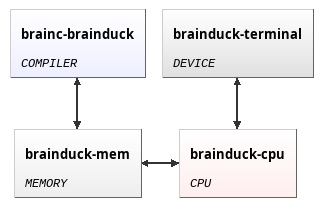
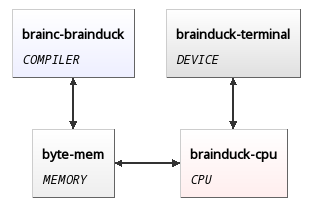
[#12] use byte-mem instead of brainduck-mem

diff --git a/documentation/user/brainduck/index.html b/documentation/user/brainduck/index.html
@@ -1,1 +1,1 @@
-<!DOCTYPE html> <html lang="en-US"> <head> <meta charset="UTF-8"> <meta http-equiv="X-UA-Compatible" content="IE=Edge"> <title>BrainDuck - User documentation for emuStudio</title> <link rel="shortcut icon" href="/documentation/user/favicon.ico" type="image/x-icon"> <link rel="stylesheet" href="/documentation/user/assets/css/just-the-docs-default.css"> <script async src="https://www.googletagmanager.com/gtag/js?id=UA-3492956-5"></script> <script> window.dataLayer = window.dataLayer || []; function gtag(){dataLayer.push(arguments);} gtag('js', new Date()); gtag('config', 'UA-3492956-5', { 'anonymize_ip': true }); </script> <script src="/documentation/user/assets/js/vendor/lunr.min.js"></script> <script src="https://cdn.jsdelivr.net/npm/mermaid@9.1.6/dist/mermaid.min.js"></script> <script src="/documentation/user/assets/js/just-the-docs.js"></script> <meta name="viewport" content="width=device-width, initial-scale=1"> <!-- Begin Jekyll SEO tag v2.8.0 --> <title>BrainDuck | User documentation for emuStudio</title> <meta name="generator" content="Jekyll v4.3.1" /> <meta property="og:title" content="BrainDuck" /> <meta property="og:locale" content="en_US" /> <meta name="description" content="User documentation for emuStudio 0.40. emuStudio is universal emulation platform and framework targeting mainly academic sphere." /> <meta property="og:description" content="User documentation for emuStudio 0.40. emuStudio is universal emulation platform and framework targeting mainly academic sphere." /> <link rel="canonical" href="/documentation/user/brainduck/" /> <meta property="og:url" content="/documentation/user/brainduck/" /> <meta property="og:site_name" content="User documentation for emuStudio" /> <meta property="og:type" content="website" /> <meta name="twitter:card" content="summary" /> <meta property="twitter:title" content="BrainDuck" /> <script type="application/ld+json"> {"@context":"https://schema.org","@type":"WebPage","description":"User documentation for emuStudio 0.40. emuStudio is universal emulation platform and framework targeting mainly academic sphere.","headline":"BrainDuck","publisher":{"@type":"Organization","logo":{"@type":"ImageObject","url":"/documentation/user/assets/logo-1.svg"}},"url":"/documentation/user/brainduck/"}</script> <!-- End Jekyll SEO tag --> </head> <body> <a class="skip-to-main" href="#main-content">Skip to main content</a> <svg xmlns="http://www.w3.org/2000/svg" style="display: none;"> <symbol id="svg-link" viewBox="0 0 24 24"> <title>Link</title> <svg xmlns="http://www.w3.org/2000/svg" width="24" height="24" viewBox="0 0 24 24" fill="none" stroke="currentColor" stroke-width="2" stroke-linecap="round" stroke-linejoin="round" class="feather feather-link"> <path d="M10 13a5 5 0 0 0 7.54.54l3-3a5 5 0 0 0-7.07-7.07l-1.72 1.71"></path><path d="M14 11a5 5 0 0 0-7.54-.54l-3 3a5 5 0 0 0 7.07 7.07l1.71-1.71"></path> </svg> </symbol> <symbol id="svg-search" viewBox="0 0 24 24"> <title>Search</title> <svg xmlns="http://www.w3.org/2000/svg" width="24" height="24" viewBox="0 0 24 24" fill="none" stroke="currentColor" stroke-width="2" stroke-linecap="round" stroke-linejoin="round" class="feather feather-search"> <circle cx="11" cy="11" r="8"></circle><line x1="21" y1="21" x2="16.65" y2="16.65"></line> </svg> </symbol> <symbol id="svg-menu" viewBox="0 0 24 24"> <title>Menu</title> <svg xmlns="http://www.w3.org/2000/svg" width="24" height="24" viewBox="0 0 24 24" fill="none" stroke="currentColor" stroke-width="2" stroke-linecap="round" stroke-linejoin="round" class="feather feather-menu"> <line x1="3" y1="12" x2="21" y2="12"></line><line x1="3" y1="6" x2="21" y2="6"></line><line x1="3" y1="18" x2="21" y2="18"></line> </svg> </symbol> <symbol id="svg-arrow-right" viewBox="0 0 24 24"> <title>Expand</title> <svg xmlns="http://www.w3.org/2000/svg" width="24" height="24" viewBox="0 0 24 24" fill="none" stroke="currentColor" stroke-width="2" stroke-linecap="round" stroke-linejoin="round" class="feather feather-chevron-right"> <polyline points="9 18 15 12 9 6"></polyline> </svg> </symbol> <symbol id="svg-doc" viewBox="0 0 24 24"> <title>Document</title> <svg xmlns="http://www.w3.org/2000/svg" width="24" height="24" viewBox="0 0 24 24" fill="none" stroke="currentColor" stroke-width="2" stroke-linecap="round" stroke-linejoin="round" class="feather feather-file"> <path d="M13 2H6a2 2 0 0 0-2 2v16a2 2 0 0 0 2 2h12a2 2 0 0 0 2-2V9z"></path><polyline points="13 2 13 9 20 9"></polyline> </svg> </symbol> <!-- Feather. MIT License: https://github.com/feathericons/feather/blob/master/LICENSE --> <symbol id="svg-external-link" width="24" height="24" viewBox="0 0 24 24" fill="none" stroke="currentColor" stroke-width="2" stroke-linecap="round" stroke-linejoin="round" class="feather feather-external-link"> <title id="svg-external-link-title">(external link)</title> <path d="M18 13v6a2 2 0 0 1-2 2H5a2 2 0 0 1-2-2V8a2 2 0 0 1 2-2h6"></path><polyline points="15 3 21 3 21 9"></polyline><line x1="10" y1="14" x2="21" y2="3"></line> </symbol> </svg> <div class="side-bar"> <div class="site-header"> <a href="/documentation/user/" class="site-title lh-tight"> <div class="site-logo"></div> </a> <a href="#" id="menu-button" class="site-button"> <svg viewBox="0 0 24 24" class="icon"><use xlink:href="#svg-menu"></use></svg> </a> </div> <nav aria-label="Main" id="site-nav" class="site-nav"> <ul class="nav-list"><li class="nav-list-item"><a href="#" class="nav-list-expander" aria-label="toggle links in Introduction category"> <svg viewBox="0 0 24 24"><use xlink:href="#svg-arrow-right"></use></svg> </a><a href="/documentation/user/introduction/" class="nav-list-link">Introduction</a><ul class="nav-list "></ul></li><li class="nav-list-item"><a href="#" class="nav-list-expander" aria-label="toggle links in emuStudio Application category"> <svg viewBox="0 0 24 24"><use xlink:href="#svg-arrow-right"></use></svg> </a><a href="/documentation/user/application/" class="nav-list-link">emuStudio Application</a><ul class="nav-list "><li class="nav-list-item "><a href="/documentation/user/application/configuration-file" class="nav-list-link">Configuration file</a></li><li class="nav-list-item "><a href="/documentation/user/application/opening-computer" class="nav-list-link">Opening a computer</a></li><li class="nav-list-item "><a href="/documentation/user/application/computer-schema" class="nav-list-link">Computer schema</a></li><li class="nav-list-item "><a href="/documentation/user/application/main-window" class="nav-list-link">Main window</a></li><li class="nav-list-item "><a href="/documentation/user/application/automation" class="nav-list-link">Automation</a></li><li class="nav-list-item "><a href="/documentation/user/application/logging" class="nav-list-link">Logging</a></li></ul></li><li class="nav-list-item"><a href="#" class="nav-list-expander" aria-label="toggle links in MITS Altair8800 category"> <svg viewBox="0 0 24 24"><use xlink:href="#svg-arrow-right"></use></svg> </a><a href="/documentation/user/altair8800/" class="nav-list-link">MITS Altair8800</a><ul class="nav-list "><li class="nav-list-item "><a href="/documentation/user/altair8800/as-8080" class="nav-list-link">Assembler as-8080</a></li><li class="nav-list-item "><a href="/documentation/user/altair8800/as-z80" class="nav-list-link">Assembler as-z80</a></li><li class="nav-list-item "><a href="/documentation/user/altair8800/8080-cpu" class="nav-list-link">CPU 8080-cpu</a></li><li class="nav-list-item "><a href="/documentation/user/altair8800/z80-cpu" class="nav-list-link">CPU z80-cpu</a></li><li class="nav-list-item "><a href="/documentation/user/altair8800/standard-mem" class="nav-list-link">Memory standard-mem</a></li><li class="nav-list-item "><a href="/documentation/user/altair8800/88-dcdd" class="nav-list-link">Device 88-dcdd</a></li><li class="nav-list-item "><a href="/documentation/user/altair8800/88-sio" class="nav-list-link">Device 88-sio</a></li><li class="nav-list-item "><a href="/documentation/user/altair8800/adm3a-terminal" class="nav-list-link">Device adm3a-terminal</a></li><li class="nav-list-item "><a href="/documentation/user/altair8800/simh-pseudo" class="nav-list-link">Device simh-pseudo</a></li><li class="nav-list-item "><a href="/documentation/user/altair8800/automation" class="nav-list-link">Automation</a></li><li class="nav-list-item "><a href="/documentation/user/altair8800/software" class="nav-list-link">Original software</a></li></ul></li><li class="nav-list-item active"><a href="#" class="nav-list-expander" aria-label="toggle links in BrainDuck category"> <svg viewBox="0 0 24 24"><use xlink:href="#svg-arrow-right"></use></svg> </a><a href="/documentation/user/brainduck/" class="nav-list-link active">BrainDuck</a><ul class="nav-list "><li class="nav-list-item "><a href="/documentation/user/brainduck/compiler" class="nav-list-link">Compiler "brainc-brainduck"</a></li><li class="nav-list-item "><a href="/documentation/user/brainduck/cpu" class="nav-list-link">CPU "brainduck-cpu"</a></li><li class="nav-list-item "><a href="/documentation/user/brainduck/terminal" class="nav-list-link">Terminal "brainduck-terminal"</a></li><li class="nav-list-item "><a href="/documentation/user/brainduck/automation" class="nav-list-link">Automation</a></li><li class="nav-list-item "><a href="/documentation/user/brainduck/examples" class="nav-list-link">Example code</a></li></ul></li><li class="nav-list-item"><a href="#" class="nav-list-expander" aria-label="toggle links in RAM category"> <svg viewBox="0 0 24 24"><use xlink:href="#svg-arrow-right"></use></svg> </a><a href="/documentation/user/ram/" class="nav-list-link">RAM</a><ul class="nav-list "><li class="nav-list-item "><a href="/documentation/user/ram/ramc-ram" class="nav-list-link">Compiler "ramc-ram"</a></li><li class="nav-list-item "><a href="/documentation/user/ram/ram-cpu" class="nav-list-link">CPU "ram-cpu"</a></li><li class="nav-list-item "><a href="/documentation/user/ram/ram-mem" class="nav-list-link">Memory "ram-mem"</a></li><li class="nav-list-item "><a href="/documentation/user/ram/abstract-tape" class="nav-list-link">Abstract tape</a></li><li class="nav-list-item "><a href="/documentation/user/ram/automation" class="nav-list-link">Automation</a></li></ul></li><li class="nav-list-item"><a href="#" class="nav-list-expander" aria-label="toggle links in RASP category"> <svg viewBox="0 0 24 24"><use xlink:href="#svg-arrow-right"></use></svg> </a><a href="/documentation/user/rasp/" class="nav-list-link">RASP</a><ul class="nav-list "><li class="nav-list-item "><a href="/documentation/user/rasp/raspc-rasp" class="nav-list-link">Compiler "raspc-rasp"</a></li><li class="nav-list-item "><a href="/documentation/user/rasp/rasp-cpu" class="nav-list-link">CPU "rasp-cpu"</a></li><li class="nav-list-item "><a href="/documentation/user/rasp/rasp-mem" class="nav-list-link">Memory "rasp-mem"</a></li><li class="nav-list-item "><a href="/documentation/user/rasp/automation" class="nav-list-link">Automation</a></li></ul></li><li class="nav-list-item"><a href="#" class="nav-list-expander" aria-label="toggle links in SSEM category"> <svg viewBox="0 0 24 24"><use xlink:href="#svg-arrow-right"></use></svg> </a><a href="/documentation/user/ssem/" class="nav-list-link">SSEM</a><ul class="nav-list "><li class="nav-list-item "><a href="/documentation/user/ssem/as-ssem" class="nav-list-link">Assembler "as-ssem"</a></li><li class="nav-list-item "><a href="/documentation/user/ssem/ssem-cpu" class="nav-list-link">CPU "ssem-cpu"</a></li><li class="nav-list-item "><a href="/documentation/user/ssem/ssem-mem" class="nav-list-link">Memory "ssem-mem"</a></li><li class="nav-list-item "><a href="/documentation/user/ssem/ssem-display" class="nav-list-link">Display "ssem-display"</a></li><li class="nav-list-item "><a href="/documentation/user/ssem/automation" class="nav-list-link">Automation</a></li><li class="nav-list-item "><a href="/documentation/user/ssem/software" class="nav-list-link">Software for SSEM</a></li></ul></li></ul> </nav> <footer class="site-footer"> This site uses <a href="https://github.com/just-the-docs/just-the-docs">Just the Docs</a>, a documentation theme for Jekyll. </footer> </div> <div class="main" id="top"> <div id="main-header" class="main-header"> <div class="search"> <div class="search-input-wrap"> <input type="text" id="search-input" class="search-input" tabindex="0" placeholder="Search User documentation for emuStudio" aria-label="Search User documentation for emuStudio" autocomplete="off"> <label for="search-input" class="search-label"><svg viewBox="0 0 24 24" class="search-icon"><use xlink:href="#svg-search"></use></svg></label> </div> <div id="search-results" class="search-results"></div> </div> <nav aria-label="Auxiliary" class="aux-nav"> <ul class="aux-nav-list"> <li class="aux-nav-list-item"> <a href="/" class="site-button" > Back to website </a> </li> </ul> </nav> </div> <div id="main-content-wrap" class="main-content-wrap"> <div id="main-content" class="main-content" role="main"> <script type="text/javascript"> gtag('event', 'userdoc', { 'event_category': 'BrainDuck', 'event_label': 'BrainDuck' }); </script> <h1 id="brainduck"> <a href="#brainduck" class="anchor-heading" aria-labelledby="brainduck"><svg viewBox="0 0 16 16" aria-hidden="true"><use xlink:href="#svg-link"></use></svg></a> BrainDuck </h1> <p>BrainDuck is an abstract computer for emuStudio, which mimics <a href="http://en.wikipedia.org/wiki/Brainfuck" target="_blank">brainfuck</a> programming language. Originally, brainfuck was developed by <a href="http://esolangs.org/wiki/Urban_M%C3%BCller" target="_blank">Urban Miller</a> and it is well-known fact that the language has a minimalistic compiler, and it’s eight instructions don’t prevent it to be Turing complete. Also, there exist many extensions of the language and there are organized programming contests in brainfuck worldwide. But all of that can be read at Wikipedia or at other sources.</p> <p>BrainDuck architecture is just a name for virtual computer in emuStudio, and consists of these plugins:</p> <ul> <li><code class="language-plaintext highlighter-rouge">brainc-brainduck</code>: Compiler of brainfuck language (original, without extensions)</li> <li><code class="language-plaintext highlighter-rouge">brainduck-cpu</code>: Brainfuck emulator acting like CPU with two registers</li> <li><code class="language-plaintext highlighter-rouge">brainduck-mem</code>: Virtual operating memory which holds both compiled brainfuck program and data</li> <li><code class="language-plaintext highlighter-rouge">brainduck-terminal</code>: Virtual terminal for displaying the output and requesting for input.</li> </ul> <p>BrainDuck is implemented as [von Neumann] computer. It means that the program and data are shared in the same memory. This is not a common approach to implementing brainfuck interpreters, and it might be changed in the future.</p> <p>As implementing a brainfuck interpreter, one must deal with several <a href="http://en.wikipedia.org/wiki/Brainfuck#Portability_issues" target="_blank">portability issues</a>, which include:</p> <ul> <li>Memory cell size (solved in <code class="language-plaintext highlighter-rouge">brainduck-memory</code> and <code class="language-plaintext highlighter-rouge">brainduck-cpu</code>)</li> <li>Memory size (number of memory cells) (solved in <code class="language-plaintext highlighter-rouge">brainduck-memory</code>)</li> <li>End-of-line code (solved in <code class="language-plaintext highlighter-rouge">brainduck-terminal</code>)</li> <li>End-of-file behavior (solved in <code class="language-plaintext highlighter-rouge">brainduck-cpu</code> and <code class="language-plaintext highlighter-rouge">brainduck-terminal</code>)</li> </ul> <p>The solution is spread across the plugins, as you can see in the parentheses. Chapters devoted to plugin’s description contain specific information.</p> <h2 id="brainduck-for-emustudio"> <a href="#brainduck-for-emustudio" class="anchor-heading" aria-labelledby="brainduck-for-emustudio"><svg viewBox="0 0 16 16" aria-hidden="true"><use xlink:href="#svg-link"></use></svg></a> BrainDuck for emuStudio </h2> <p>In order to use BrainDuck, there must be drawn the abstract schema, saved in the configuration file. Abstract schemas are drawn in the schema editor in emuStudio (please see emuStudio application documentation for more details). The following image shows the schema of BrainDuck computer:</p> <p><img src="/documentation/user/assets/brainduck/brainduck-schema.png" alt="BrainDuck abstract schema" style="max-width:326" /></p> <p>The “–&gt;” arrows are in a direction of dependency. So for example <code class="language-plaintext highlighter-rouge">brainc-brainduck</code> depends on <code class="language-plaintext highlighter-rouge">brainduck-mem</code>, because compiled programs are directly loaded into memory.</p> <p>Between <code class="language-plaintext highlighter-rouge">brainduck-cpu</code> and <code class="language-plaintext highlighter-rouge">brainduck-terminal</code> exists bidirectional dependency, because input gained from a terminal is passed to the CPU, and output is pushed from CPU to the terminal.</p> <p>plugin <code class="language-plaintext highlighter-rouge">brainduck-cpu</code> also depends on <code class="language-plaintext highlighter-rouge">brainduck-mem</code>, because memory is a place where program and data are stored.</p> <hr> <h2 class="text-delta">Table of contents</h2> <ul> <li> <a href="/documentation/user/brainduck/compiler">Compiler "brainc-brainduck"</a> </li> <li> <a href="/documentation/user/brainduck/cpu">CPU "brainduck-cpu"</a> </li> <li> <a href="/documentation/user/brainduck/terminal">Terminal "brainduck-terminal"</a> </li> <li> <a href="/documentation/user/brainduck/automation">Automation</a> </li> <li> <a href="/documentation/user/brainduck/examples">Example code</a> </li> </ul> </div> </div> <div class="search-overlay"></div> </div> <script> var config = {} ; mermaid.initialize(config); window.mermaid.init(undefined, document.querySelectorAll('.language-mermaid')); </script> </body> </html>
+<!DOCTYPE html> <html lang="en-US"> <head> <meta charset="UTF-8"> <meta http-equiv="X-UA-Compatible" content="IE=Edge"> <title>BrainDuck - User documentation for emuStudio</title> <link rel="shortcut icon" href="/documentation/user/favicon.ico" type="image/x-icon"> <link rel="stylesheet" href="/documentation/user/assets/css/just-the-docs-default.css"> <script async src="https://www.googletagmanager.com/gtag/js?id=UA-3492956-5"></script> <script> window.dataLayer = window.dataLayer || []; function gtag(){dataLayer.push(arguments);} gtag('js', new Date()); gtag('config', 'UA-3492956-5', { 'anonymize_ip': true }); </script> <script src="/documentation/user/assets/js/vendor/lunr.min.js"></script> <script src="https://cdn.jsdelivr.net/npm/mermaid@9.1.6/dist/mermaid.min.js"></script> <script src="/documentation/user/assets/js/just-the-docs.js"></script> <meta name="viewport" content="width=device-width, initial-scale=1"> <!-- Begin Jekyll SEO tag v2.8.0 --> <title>BrainDuck | User documentation for emuStudio</title> <meta name="generator" content="Jekyll v4.3.1" /> <meta property="og:title" content="BrainDuck" /> <meta property="og:locale" content="en_US" /> <meta name="description" content="User documentation for emuStudio 0.40. emuStudio is universal emulation platform and framework targeting mainly academic sphere." /> <meta property="og:description" content="User documentation for emuStudio 0.40. emuStudio is universal emulation platform and framework targeting mainly academic sphere." /> <link rel="canonical" href="/documentation/user/brainduck/" /> <meta property="og:url" content="/documentation/user/brainduck/" /> <meta property="og:site_name" content="User documentation for emuStudio" /> <meta property="og:type" content="website" /> <meta name="twitter:card" content="summary" /> <meta property="twitter:title" content="BrainDuck" /> <script type="application/ld+json"> {"@context":"https://schema.org","@type":"WebPage","description":"User documentation for emuStudio 0.40. emuStudio is universal emulation platform and framework targeting mainly academic sphere.","headline":"BrainDuck","publisher":{"@type":"Organization","logo":{"@type":"ImageObject","url":"/documentation/user/assets/logo-1.svg"}},"url":"/documentation/user/brainduck/"}</script> <!-- End Jekyll SEO tag --> </head> <body> <a class="skip-to-main" href="#main-content">Skip to main content</a> <svg xmlns="http://www.w3.org/2000/svg" style="display: none;"> <symbol id="svg-link" viewBox="0 0 24 24"> <title>Link</title> <svg xmlns="http://www.w3.org/2000/svg" width="24" height="24" viewBox="0 0 24 24" fill="none" stroke="currentColor" stroke-width="2" stroke-linecap="round" stroke-linejoin="round" class="feather feather-link"> <path d="M10 13a5 5 0 0 0 7.54.54l3-3a5 5 0 0 0-7.07-7.07l-1.72 1.71"></path><path d="M14 11a5 5 0 0 0-7.54-.54l-3 3a5 5 0 0 0 7.07 7.07l1.71-1.71"></path> </svg> </symbol> <symbol id="svg-search" viewBox="0 0 24 24"> <title>Search</title> <svg xmlns="http://www.w3.org/2000/svg" width="24" height="24" viewBox="0 0 24 24" fill="none" stroke="currentColor" stroke-width="2" stroke-linecap="round" stroke-linejoin="round" class="feather feather-search"> <circle cx="11" cy="11" r="8"></circle><line x1="21" y1="21" x2="16.65" y2="16.65"></line> </svg> </symbol> <symbol id="svg-menu" viewBox="0 0 24 24"> <title>Menu</title> <svg xmlns="http://www.w3.org/2000/svg" width="24" height="24" viewBox="0 0 24 24" fill="none" stroke="currentColor" stroke-width="2" stroke-linecap="round" stroke-linejoin="round" class="feather feather-menu"> <line x1="3" y1="12" x2="21" y2="12"></line><line x1="3" y1="6" x2="21" y2="6"></line><line x1="3" y1="18" x2="21" y2="18"></line> </svg> </symbol> <symbol id="svg-arrow-right" viewBox="0 0 24 24"> <title>Expand</title> <svg xmlns="http://www.w3.org/2000/svg" width="24" height="24" viewBox="0 0 24 24" fill="none" stroke="currentColor" stroke-width="2" stroke-linecap="round" stroke-linejoin="round" class="feather feather-chevron-right"> <polyline points="9 18 15 12 9 6"></polyline> </svg> </symbol> <symbol id="svg-doc" viewBox="0 0 24 24"> <title>Document</title> <svg xmlns="http://www.w3.org/2000/svg" width="24" height="24" viewBox="0 0 24 24" fill="none" stroke="currentColor" stroke-width="2" stroke-linecap="round" stroke-linejoin="round" class="feather feather-file"> <path d="M13 2H6a2 2 0 0 0-2 2v16a2 2 0 0 0 2 2h12a2 2 0 0 0 2-2V9z"></path><polyline points="13 2 13 9 20 9"></polyline> </svg> </symbol> <!-- Feather. MIT License: https://github.com/feathericons/feather/blob/master/LICENSE --> <symbol id="svg-external-link" width="24" height="24" viewBox="0 0 24 24" fill="none" stroke="currentColor" stroke-width="2" stroke-linecap="round" stroke-linejoin="round" class="feather feather-external-link"> <title id="svg-external-link-title">(external link)</title> <path d="M18 13v6a2 2 0 0 1-2 2H5a2 2 0 0 1-2-2V8a2 2 0 0 1 2-2h6"></path><polyline points="15 3 21 3 21 9"></polyline><line x1="10" y1="14" x2="21" y2="3"></line> </symbol> </svg> <div class="side-bar"> <div class="site-header"> <a href="/documentation/user/" class="site-title lh-tight"> <div class="site-logo"></div> </a> <a href="#" id="menu-button" class="site-button"> <svg viewBox="0 0 24 24" class="icon"><use xlink:href="#svg-menu"></use></svg> </a> </div> <nav aria-label="Main" id="site-nav" class="site-nav"> <ul class="nav-list"><li class="nav-list-item"><a href="#" class="nav-list-expander" aria-label="toggle links in Introduction category"> <svg viewBox="0 0 24 24"><use xlink:href="#svg-arrow-right"></use></svg> </a><a href="/documentation/user/introduction/" class="nav-list-link">Introduction</a><ul class="nav-list "></ul></li><li class="nav-list-item"><a href="#" class="nav-list-expander" aria-label="toggle links in emuStudio Application category"> <svg viewBox="0 0 24 24"><use xlink:href="#svg-arrow-right"></use></svg> </a><a href="/documentation/user/application/" class="nav-list-link">emuStudio Application</a><ul class="nav-list "><li class="nav-list-item "><a href="/documentation/user/application/configuration-file" class="nav-list-link">Configuration file</a></li><li class="nav-list-item "><a href="/documentation/user/application/opening-computer" class="nav-list-link">Opening a computer</a></li><li class="nav-list-item "><a href="/documentation/user/application/computer-schema" class="nav-list-link">Computer schema</a></li><li class="nav-list-item "><a href="/documentation/user/application/main-window" class="nav-list-link">Main window</a></li><li class="nav-list-item "><a href="/documentation/user/application/automation" class="nav-list-link">Automation</a></li><li class="nav-list-item "><a href="/documentation/user/application/logging" class="nav-list-link">Logging</a></li></ul></li><li class="nav-list-item"><a href="#" class="nav-list-expander" aria-label="toggle links in MITS Altair8800 category"> <svg viewBox="0 0 24 24"><use xlink:href="#svg-arrow-right"></use></svg> </a><a href="/documentation/user/altair8800/" class="nav-list-link">MITS Altair8800</a><ul class="nav-list "><li class="nav-list-item "><a href="/documentation/user/altair8800/as-8080" class="nav-list-link">Assembler as-8080</a></li><li class="nav-list-item "><a href="/documentation/user/altair8800/as-z80" class="nav-list-link">Assembler as-z80</a></li><li class="nav-list-item "><a href="/documentation/user/altair8800/8080-cpu" class="nav-list-link">CPU 8080-cpu</a></li><li class="nav-list-item "><a href="/documentation/user/altair8800/z80-cpu" class="nav-list-link">CPU z80-cpu</a></li><li class="nav-list-item "><a href="/documentation/user/altair8800/standard-mem" class="nav-list-link">Memory standard-mem</a></li><li class="nav-list-item "><a href="/documentation/user/altair8800/88-dcdd" class="nav-list-link">Device 88-dcdd</a></li><li class="nav-list-item "><a href="/documentation/user/altair8800/88-sio" class="nav-list-link">Device 88-sio</a></li><li class="nav-list-item "><a href="/documentation/user/altair8800/adm3a-terminal" class="nav-list-link">Device adm3a-terminal</a></li><li class="nav-list-item "><a href="/documentation/user/altair8800/simh-pseudo" class="nav-list-link">Device simh-pseudo</a></li><li class="nav-list-item "><a href="/documentation/user/altair8800/automation" class="nav-list-link">Automation</a></li><li class="nav-list-item "><a href="/documentation/user/altair8800/software" class="nav-list-link">Original software</a></li></ul></li><li class="nav-list-item active"><a href="#" class="nav-list-expander" aria-label="toggle links in BrainDuck category"> <svg viewBox="0 0 24 24"><use xlink:href="#svg-arrow-right"></use></svg> </a><a href="/documentation/user/brainduck/" class="nav-list-link active">BrainDuck</a><ul class="nav-list "><li class="nav-list-item "><a href="/documentation/user/brainduck/compiler" class="nav-list-link">Compiler "brainc-brainduck"</a></li><li class="nav-list-item "><a href="/documentation/user/brainduck/cpu" class="nav-list-link">CPU "brainduck-cpu"</a></li><li class="nav-list-item "><a href="/documentation/user/brainduck/terminal" class="nav-list-link">Terminal "brainduck-terminal"</a></li><li class="nav-list-item "><a href="/documentation/user/brainduck/automation" class="nav-list-link">Automation</a></li><li class="nav-list-item "><a href="/documentation/user/brainduck/examples" class="nav-list-link">Example code</a></li></ul></li><li class="nav-list-item"><a href="#" class="nav-list-expander" aria-label="toggle links in RAM category"> <svg viewBox="0 0 24 24"><use xlink:href="#svg-arrow-right"></use></svg> </a><a href="/documentation/user/ram/" class="nav-list-link">RAM</a><ul class="nav-list "><li class="nav-list-item "><a href="/documentation/user/ram/ramc-ram" class="nav-list-link">Compiler "ramc-ram"</a></li><li class="nav-list-item "><a href="/documentation/user/ram/ram-cpu" class="nav-list-link">CPU "ram-cpu"</a></li><li class="nav-list-item "><a href="/documentation/user/ram/ram-mem" class="nav-list-link">Memory "ram-mem"</a></li><li class="nav-list-item "><a href="/documentation/user/ram/abstract-tape" class="nav-list-link">Abstract tape</a></li><li class="nav-list-item "><a href="/documentation/user/ram/automation" class="nav-list-link">Automation</a></li></ul></li><li class="nav-list-item"><a href="#" class="nav-list-expander" aria-label="toggle links in RASP category"> <svg viewBox="0 0 24 24"><use xlink:href="#svg-arrow-right"></use></svg> </a><a href="/documentation/user/rasp/" class="nav-list-link">RASP</a><ul class="nav-list "><li class="nav-list-item "><a href="/documentation/user/rasp/raspc-rasp" class="nav-list-link">Compiler "raspc-rasp"</a></li><li class="nav-list-item "><a href="/documentation/user/rasp/rasp-cpu" class="nav-list-link">CPU "rasp-cpu"</a></li><li class="nav-list-item "><a href="/documentation/user/rasp/rasp-mem" class="nav-list-link">Memory "rasp-mem"</a></li><li class="nav-list-item "><a href="/documentation/user/rasp/automation" class="nav-list-link">Automation</a></li></ul></li><li class="nav-list-item"><a href="#" class="nav-list-expander" aria-label="toggle links in SSEM category"> <svg viewBox="0 0 24 24"><use xlink:href="#svg-arrow-right"></use></svg> </a><a href="/documentation/user/ssem/" class="nav-list-link">SSEM</a><ul class="nav-list "><li class="nav-list-item "><a href="/documentation/user/ssem/as-ssem" class="nav-list-link">Assembler "as-ssem"</a></li><li class="nav-list-item "><a href="/documentation/user/ssem/ssem-cpu" class="nav-list-link">CPU "ssem-cpu"</a></li><li class="nav-list-item "><a href="/documentation/user/ssem/ssem-mem" class="nav-list-link">Memory "ssem-mem"</a></li><li class="nav-list-item "><a href="/documentation/user/ssem/ssem-display" class="nav-list-link">Display "ssem-display"</a></li><li class="nav-list-item "><a href="/documentation/user/ssem/automation" class="nav-list-link">Automation</a></li><li class="nav-list-item "><a href="/documentation/user/ssem/software" class="nav-list-link">Software for SSEM</a></li></ul></li></ul> </nav> <footer class="site-footer"> This site uses <a href="https://github.com/just-the-docs/just-the-docs">Just the Docs</a>, a documentation theme for Jekyll. </footer> </div> <div class="main" id="top"> <div id="main-header" class="main-header"> <div class="search"> <div class="search-input-wrap"> <input type="text" id="search-input" class="search-input" tabindex="0" placeholder="Search User documentation for emuStudio" aria-label="Search User documentation for emuStudio" autocomplete="off"> <label for="search-input" class="search-label"><svg viewBox="0 0 24 24" class="search-icon"><use xlink:href="#svg-search"></use></svg></label> </div> <div id="search-results" class="search-results"></div> </div> <nav aria-label="Auxiliary" class="aux-nav"> <ul class="aux-nav-list"> <li class="aux-nav-list-item"> <a href="/" class="site-button" > Back to website </a> </li> </ul> </nav> </div> <div id="main-content-wrap" class="main-content-wrap"> <div id="main-content" class="main-content" role="main"> <script type="text/javascript"> gtag('event', 'userdoc', { 'event_category': 'BrainDuck', 'event_label': 'BrainDuck' }); </script> <h1 id="brainduck"> <a href="#brainduck" class="anchor-heading" aria-labelledby="brainduck"><svg viewBox="0 0 16 16" aria-hidden="true"><use xlink:href="#svg-link"></use></svg></a> BrainDuck </h1> <p>BrainDuck is an abstract computer for emuStudio, which mimics <a href="http://en.wikipedia.org/wiki/Brainfuck" target="_blank">brainfuck</a> programming language. Originally, brainfuck was developed by <a href="http://esolangs.org/wiki/Urban_M%C3%BCller" target="_blank">Urban Miller</a> and it is well-known fact that the language has a minimalistic compiler, and it’s eight instructions don’t prevent it to be Turing complete. Also, there exist many extensions of the language and there are organized programming contests in brainfuck worldwide. But all of that can be read at Wikipedia or at other sources.</p> <p>BrainDuck architecture is just a name for virtual computer in emuStudio, and consists of these plugins:</p> <ul> <li><code class="language-plaintext highlighter-rouge">brainc-brainduck</code>: Compiler of brainfuck language (original, without extensions)</li> <li><code class="language-plaintext highlighter-rouge">brainduck-cpu</code>: Brainfuck emulator acting like CPU with two registers</li> <li><code class="language-plaintext highlighter-rouge">byte-mem</code>: Virtual operating memory which holds both compiled brainfuck program and data</li> <li><code class="language-plaintext highlighter-rouge">brainduck-terminal</code>: Virtual terminal for displaying the output and requesting for input.</li> </ul> <p>BrainDuck is implemented as [von Neumann] computer. It means that the program and data are shared in the same memory. This is not a common approach to implementing brainfuck interpreters, and it might be changed in the future.</p> <p>As implementing a brainfuck interpreter, one must deal with several <a href="http://en.wikipedia.org/wiki/Brainfuck#Portability_issues" target="_blank">portability issues</a>, which include:</p> <ul> <li>Memory cell size (<code class="language-plaintext highlighter-rouge">byte</code>)</li> <li>Memory size (number of memory cells) (by default 65536 when using <code class="language-plaintext highlighter-rouge">byte-mem</code>)</li> <li>End-of-line code (0x0A is simulating both CRLF, 0x0D is just CR)</li> <li>End-of-file behavior (in automatic no-GUI emulation when input is at EOF 0 is returned; in GUI-capable emulation the input is read from the host keyboard)</li> </ul> <h2 id="brainduck-for-emustudio"> <a href="#brainduck-for-emustudio" class="anchor-heading" aria-labelledby="brainduck-for-emustudio"><svg viewBox="0 0 16 16" aria-hidden="true"><use xlink:href="#svg-link"></use></svg></a> BrainDuck for emuStudio </h2> <p>In order to use BrainDuck, there must be drawn the abstract schema, saved in the configuration file. Abstract schemas are drawn in the schema editor in emuStudio (please see emuStudio application documentation for more details). The following image shows the schema of BrainDuck computer:</p> <p><img src="/documentation/user/assets/brainduck/brainduck-schema.png" alt="BrainDuck abstract schema" style="max-width:326" /></p> <p>Arrows are in a direction of dependency. So for example <code class="language-plaintext highlighter-rouge">brainc-brainduck</code> depends on <code class="language-plaintext highlighter-rouge">byte-mem</code>, because compiled programs are directly loaded into memory.</p> <p>Between <code class="language-plaintext highlighter-rouge">brainduck-cpu</code> and <code class="language-plaintext highlighter-rouge">brainduck-terminal</code> exists bidirectional dependency, because input gained from a terminal is passed to the CPU, and output is pushed from CPU to the terminal.</p> <p>plugin <code class="language-plaintext highlighter-rouge">brainduck-cpu</code> also depends on <code class="language-plaintext highlighter-rouge">brainduck-mem</code>, because memory is a place where program and data are stored.</p> <hr> <h2 class="text-delta">Table of contents</h2> <ul> <li> <a href="/documentation/user/brainduck/compiler">Compiler "brainc-brainduck"</a> </li> <li> <a href="/documentation/user/brainduck/cpu">CPU "brainduck-cpu"</a> </li> <li> <a href="/documentation/user/brainduck/terminal">Terminal "brainduck-terminal"</a> </li> <li> <a href="/documentation/user/brainduck/automation">Automation</a> </li> <li> <a href="/documentation/user/brainduck/examples">Example code</a> </li> </ul> </div> </div> <div class="search-overlay"></div> </div> <script> var config = {} ; mermaid.initialize(config); window.mermaid.init(undefined, document.querySelectorAll('.language-mermaid')); </script> </body> </html>

diff --git a/_documentation/user/_doc/brainduck/index.md b/_documentation/user/_doc/brainduck/index.md
@@ -20,7 +20,7 @@ BrainDuck architecture is just a name for virtual computer in emuStudio, and con
 
 - `brainc-brainduck`: Compiler of brainfuck language (original, without extensions)
 - `brainduck-cpu`: Brainfuck emulator acting like CPU with two registers
-- `brainduck-mem`: Virtual operating memory which holds both compiled brainfuck program and data
+- `byte-mem`: Virtual operating memory which holds both compiled brainfuck program and data
 - `brainduck-terminal`: Virtual terminal for displaying the output and requesting for input.
 
 BrainDuck is implemented as [von Neumann] computer. It means that the program and data are shared in the same memory.
@@ -29,13 +29,10 @@ This is not a common approach to implementing brainfuck interpreters, and it mig
 As implementing a brainfuck interpreter, one must deal with several [portability issues][portability]{:target="_blank"},
 which include:
 
-- Memory cell size (solved in `brainduck-memory` and `brainduck-cpu`)
-- Memory size (number of memory cells) (solved in `brainduck-memory`)
-- End-of-line code (solved in `brainduck-terminal`)
-- End-of-file behavior (solved in `brainduck-cpu` and `brainduck-terminal`)
-
-The solution is spread across the plugins, as you can see in the parentheses. Chapters devoted to plugin's description
-contain specific information.
+- Memory cell size (`byte`)
+- Memory size (number of memory cells) (by default 65536 when using `byte-mem`)
+- End-of-line code (0x0A is simulating both CRLF, 0x0D is just CR)
+- End-of-file behavior (in automatic no-GUI emulation when input is at EOF 0 is returned; in GUI-capable emulation the input is read from the host keyboard)
 
 ## BrainDuck for emuStudio
 
@@ -45,7 +42,7 @@ following image shows the schema of BrainDuck computer:
 
 ![BrainDuck abstract schema]({{ site.baseurl}}/assets/brainduck/brainduck-schema.png){:style="max-width:326"}
 
-The "-->" arrows are in a direction of dependency. So for example `brainc-brainduck` depends on `brainduck-mem`, because
+Arrows are in a direction of dependency. So for example `brainc-brainduck` depends on `byte-mem`, because
 compiled programs are directly loaded into memory.
 
 Between `brainduck-cpu` and `brainduck-terminal` exists bidirectional dependency, because input gained from a terminal
